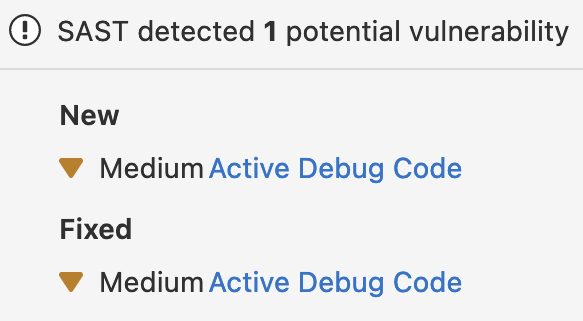
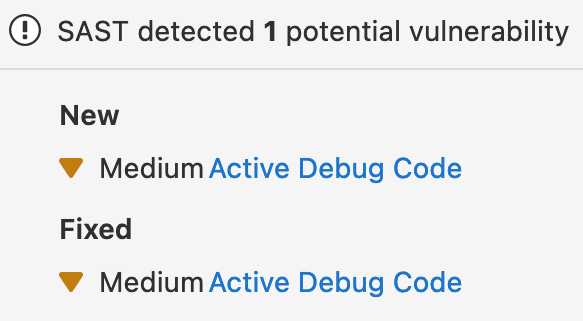
Compress png images and fix link

diff --git a/doc/user/discussions/index.md b/doc/user/discussions/index.md
@@ -168,7 +168,7 @@ If an issue or merge request is locked and closed, you cannot reopen it.
 > - [Renamed](https://gitlab.com/gitlab-org/gitlab/-/merge_requests/87403) from "confidential comments" to "internal notes" in GitLab 15.0.
 > - [Enabled on GitLab.com and self-managed](https://gitlab.com/gitlab-org/gitlab/-/merge_requests/87383) in GitLab 15.0.
 > - [Feature flag `confidential_notes`](https://gitlab.com/gitlab-org/gitlab/-/issues/362712) removed in GitLab 15.2.
-> - [Changed] permissions in GitLab 15.5 to at least the Reporter role. In GitLab 15.4 and earlier, issue or epic authors and assignees could also read and create internal notes.
+> - [Changed](https://gitlab.com/gitlab-org/gitlab/-/issues/363045) permissions in GitLab 15.5 to at least the Reporter role. In GitLab 15.4 and earlier, issue or epic authors and assignees could also read and create internal notes.
 
 You can add an internal note **to an issue or an epic**. It's then visible only to project members who have at least the Reporter role.
 
